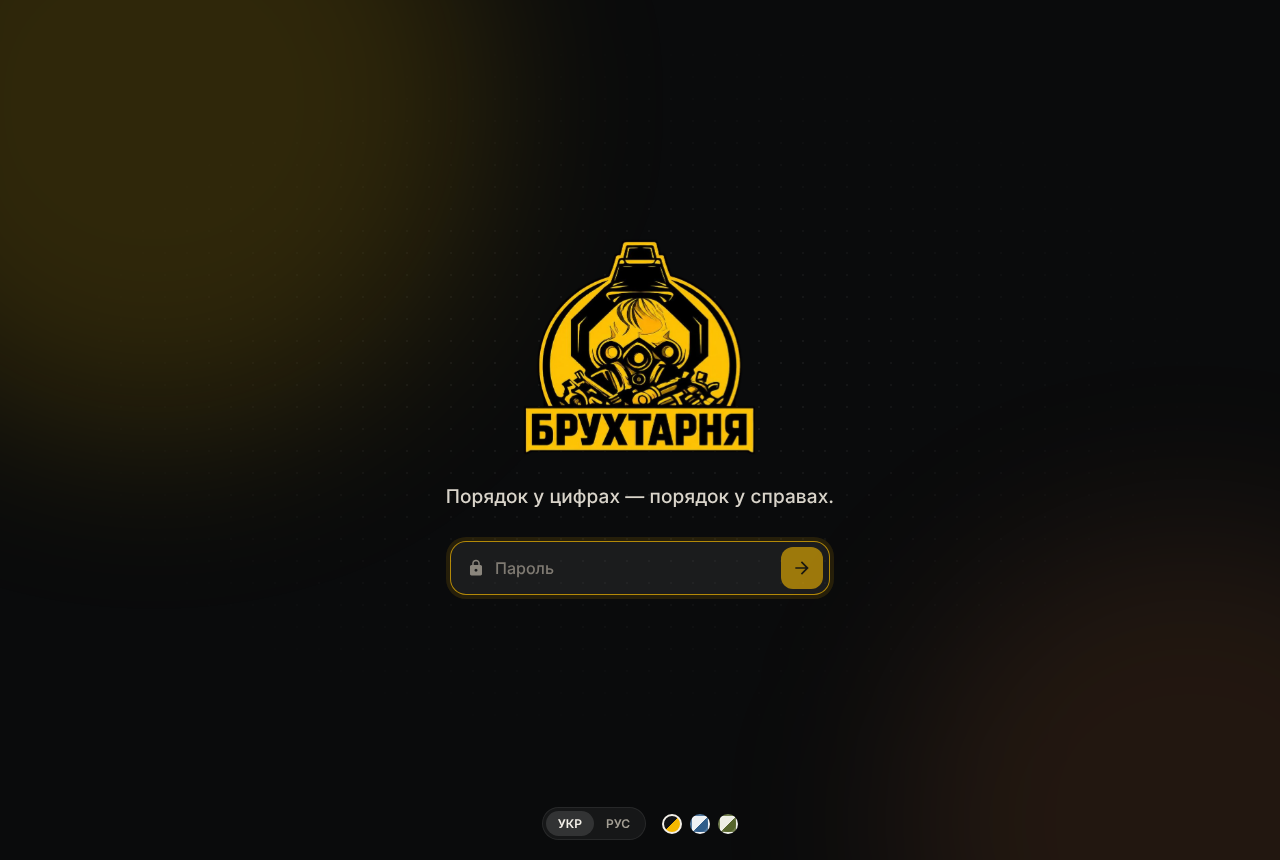
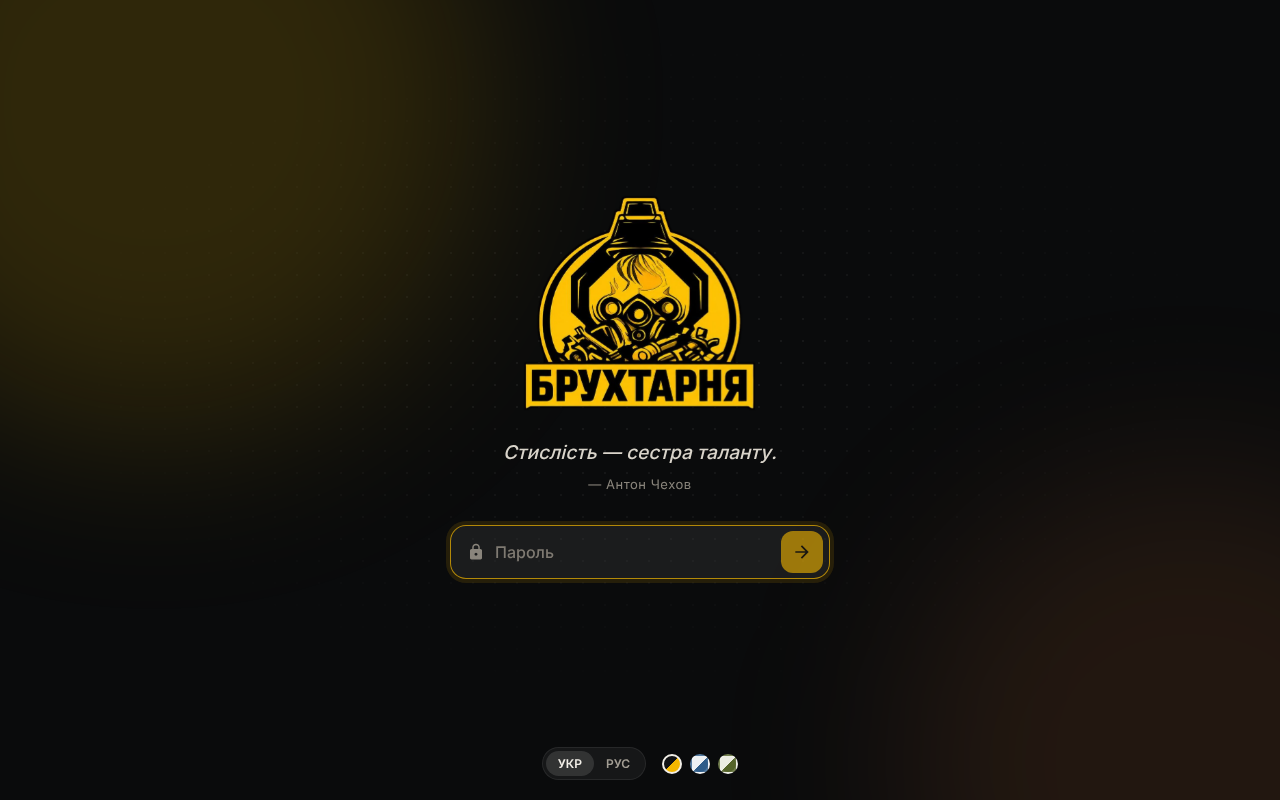
Вхід: замість гасел — короткі цитати філософів з автором
Claude-Session: https://claude.ai/code/session_01Bc93v7C6FsgAH98TmQe7Lv

Changed region(s): [[0.4062, 0.25, 0.5938, 0.5312], [0.3438, 0.5625, 0.6562, 0.75], [0.4375, 0.9375, 0.5938, 0.9688]]

diff --git a/vue-app/src/components/EntryScreen.vue b/vue-app/src/components/EntryScreen.vue
@@ -8,19 +8,22 @@ import BrandLogo from './BrandLogo.vue'
 const props = defineProps<{ needPassword: boolean; receiverMode?: boolean }>()
 const emit = defineEmits<{ done: [role: string] }>()
 
-// Коротко, по-людськи, без пафосу. Пара uk/ru з тим самим змістом.
-const PHRASES: [string, string][] = [
-  ['Кожен кілограм на своєму місці.', 'Каждый килограмм на своём месте.'],
-  ['Точна вага — спокійний вечір.', 'Точный вес — спокойный вечер.'],
-  ['Добре зважено — наполовину зроблено.', 'Хорошо взвешено — наполовину сделано.'],
-  ['Дрібниць не буває. Бувають кілограми.', 'Мелочей не бывает. Бывают килограммы.'],
-  ['Чесна вага — міцна команда.', 'Честный вес — крепкая команда.'],
-  ['Сьогодні буде добрий день.', 'Сегодня будет хороший день.'],
-  ['Порядок у цифрах — порядок у справах.', 'Порядок в цифрах — порядок в делах.'],
-  ['Метал любить точність. Ми теж.', 'Металл любит точность. Мы тоже.'],
+// Цитати з глибиною, але без пафосу. Лише ті, чиє авторство надійне (без «приписаних» Конфуцію тощо).
+// [uk, ru, автор uk, автор ru]
+const QUOTES: [string, string, string, string][] = [
+  ['Поки ми відкладаємо життя, воно минає.', 'Пока мы откладываем жизнь, она проходит.', 'Сенека', 'Сенека'],
+  ['Не речі турбують людей, а їхні думки про речі.', 'Не вещи тревожат людей, а их мнения о вещах.', 'Епіктет', 'Эпиктет'],
+  ['Не тому ми не наважуємось, що важко; важко тому, що не наважуємось.', 'Не потому, что трудно, мы не решаемся; потому трудно, что не решаемся.', 'Сенека', 'Сенека'],
+  ['Не можна двічі увійти в ту саму річку.', 'Нельзя дважды войти в одну и ту же реку.', 'Геракліт', 'Гераклит'],
+  ['Шлях у тисячу лі починається з першого кроку.', 'Путь в тысячу ли начинается с первого шага.', 'Лао-цзи', 'Лао-цзы'],
+  ['Світ ловив мене, та не спіймав.', 'Мир ловил меня, но не поймал.', 'Григорій Сковорода', 'Григорий Сковорода'],
+  ['Найголовнішого очима не побачиш.', 'Самого главного глазами не увидишь.', 'Антуан де Сент-Екзюпері', 'Антуан де Сент-Экзюпери'],
+  ['Стислість — сестра таланту.', 'Краткость — сестра таланта.', 'Антон Чехов', 'Антон Чехов'],
+  ['Я знаю, що нічого не знаю.', 'Я знаю, что ничего не знаю.', 'Сократ', 'Сократ'],
 ]
-const pick = Math.floor(Math.random() * PHRASES.length)
-const phrase = computed(() => PHRASES[pick][lang.value === 'ru' ? 1 : 0])
+const pick = Math.floor(Math.random() * QUOTES.length)
+const phrase = computed(() => QUOTES[pick][lang.value === 'ru' ? 1 : 0])
+const author = computed(() => QUOTES[pick][lang.value === 'ru' ? 3 : 2])
 
 const password = ref('')
 const error = ref('')
@@ -75,7 +78,10 @@ onBeforeUnmount(() => window.clearTimeout(timer))
         <div class="halo" />
         <BrandLogo large :size="200" class="logo" />
       </div>
-      <p class="phrase">{{ phrase }}</p>
+      <figure class="quote">
+        <blockquote class="phrase">{{ phrase }}</blockquote>
+        <figcaption class="author">{{ author }}</figcaption>
+      </figure>
 
       <form v-if="needPassword" class="login" :class="{ shake }" @submit.prevent="submit" @click.stop
         @animationend="shake = false">
@@ -147,8 +153,11 @@ onBeforeUnmount(() => window.clearTimeout(timer))
 }
 @keyframes halo { to { opacity: 0.55; transform: translate(-50%, -50%) scale(1.12); } }
 
+.quote { margin: 26px 0 0; }
+.author { margin-top: 8px; font-size: 13px; color: #8A857C; letter-spacing: 0.04em; opacity: 0; animation: up 0.9s var(--ease) 0.75s forwards; }
+.author::before { content: '— '; }
 .phrase {
-  margin: 26px 0 0; max-width: 520px; font-size: clamp(16px, 2.4vw, 19px); line-height: 1.45; font-weight: 500;
+  margin: 0; font-style: italic; max-width: 520px; font-size: clamp(16px, 2.4vw, 19px); line-height: 1.45; font-weight: 500;
   color: #D9D4CA; letter-spacing: 0.005em; opacity: 0; animation: up 0.9s var(--ease) 0.55s forwards;
 }
 @keyframes up { from { opacity: 0; transform: translateY(10px); } to { opacity: 1; transform: none; } }
@@ -199,6 +208,6 @@ onBeforeUnmount(() => window.clearTimeout(timer))
 
 @media (prefers-reduced-motion: reduce) {
   .blob, .halo { animation: blob-in 0.01s forwards; }
-  .logo, .phrase, .login, .start, .foot { animation-duration: 0.01s; animation-delay: 0s; }
+  .logo, .phrase, .author, .login, .start, .foot { animation-duration: 0.01s; animation-delay: 0s; }
 }
 </style>
